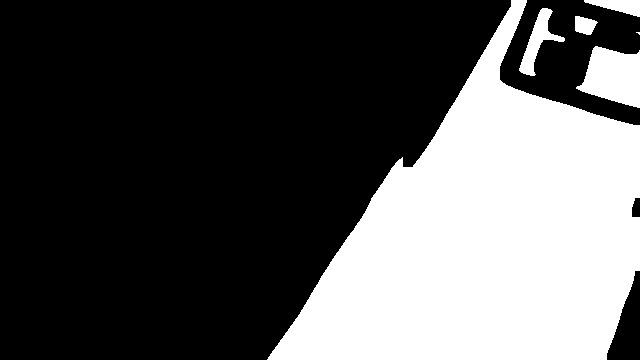
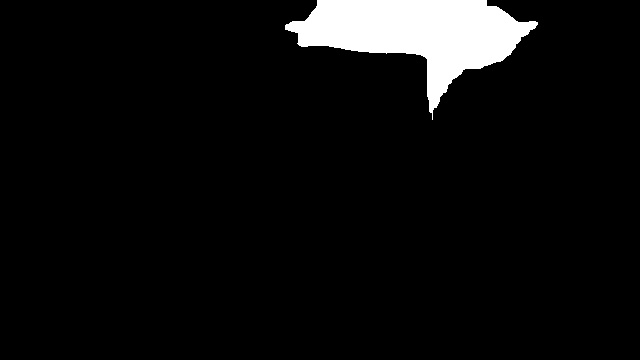
move on intersection

diff --git a/Startup_Code/Bot.py b/Startup_Code/Bot.py
@@ -1,7 +1,7 @@
 from detect_object_new import detect_color_shape
 from time import sleep
 import cv2
-from Utils.PathMoverUtils import run_path_follower, is_path_found
+from Utils.PathMoverUtils import run_path_follower, is_path_found, turn_left, turn_right
 import llm
 import Utils.ServoUtils as ServoUtils
 import Utils.ImageUtils as ImageUtils
@@ -152,6 +152,9 @@ class Bot:
                     return
                 self.__look_at_return_marker()
 
+    def execute_lane(self):
+        if self.intersection_answer == "left":
+            turn_left()
         
 
     def move_to_answer_path(self):

diff --git a/Startup_Code/ArucoProcessor.py b/Startup_Code/ArucoProcessor.py
@@ -22,6 +22,9 @@ def processDropObject(bot, dir):
 def processReadBillboard2(bot: Bot):
     bot.read_billboard_2()
 
+def processLane(bot):
+    bot.execute_lane()
+
 def processAruco(bot, aruco):
     # TODO: add visited 
     match aruco:
@@ -48,5 +51,6 @@ def processAruco(bot, aruco):
             sleep(2)
 
         case MarkerAction.EXECUTE_LANE:
-            pass
+            processLane(bot)
+            sleep(2)
 

diff --git a/Startup_Code/Utils/ServoUtils.py b/Startup_Code/Utils/ServoUtils.py
@@ -19,7 +19,7 @@ OBJECT_DROP_GRIPPER_ARM = 80
 MARKER_RETURN_MAIN_ARM = 105
 MARKER_RETURN_CAMERA_ARM = 135
 
-READ_BILLBOARD_MAIN_ARM = 95
+READ_BILLBOARD_MAIN_ARM = 85
 READ_BILLBOARD_CAMERA_ARM = 160 # try 175 to work for all distances
 
 
